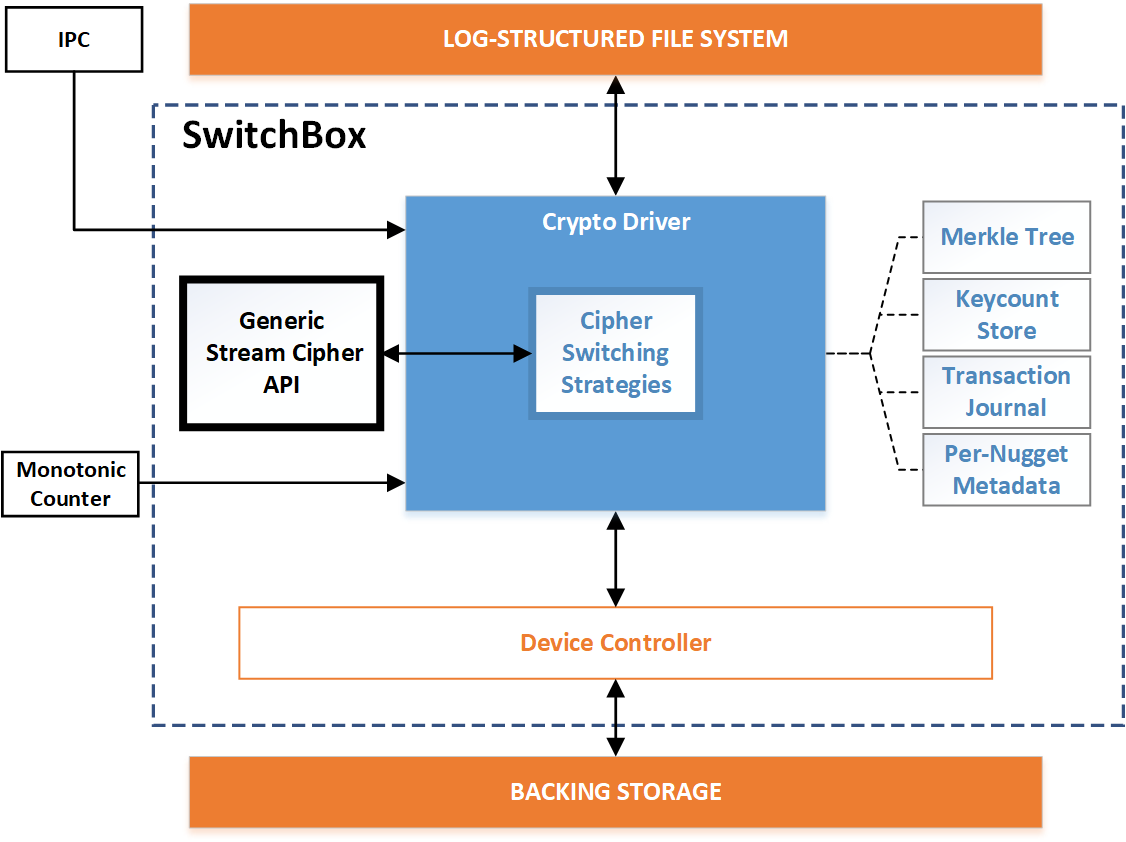
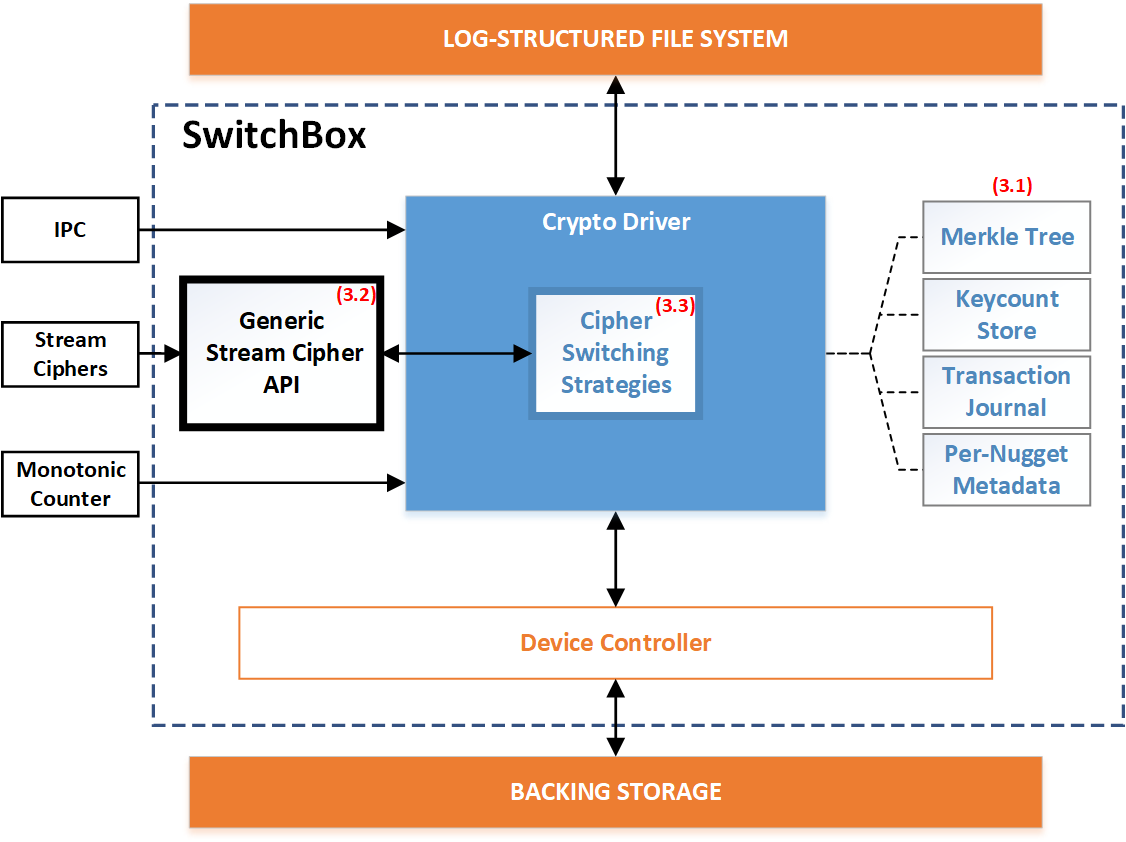
updated fig again, integrating Har feedback

diff --git a/4_implementation.tex b/4_implementation.tex
@@ -21,25 +21,21 @@ to transact block I/O requests to and from virtual block devices exposed via
 domain socket.
 
 For experimental purposes, our implementation makes the choice of ciphers
-binary: either the system wants SwitchCrypt to access the backing store using the
-primary cipher or the secondary cipher. However, there is no technical
+binary: either the system wants SwitchCrypt to access the backing store using
+the primary cipher or the secondary cipher. However, there is no technical
 limitation preventing various different nuggets encrypted with three, four, or
 more unique ciphers.
 
-Cipher switching is a cross-cutting concern---for instance, the desire to switch
-ciphers could come from an unrelated process in user space, so we use POSIX
-message queues in our implementation.
-
-A production-ready implementation would be greatly simplified by adding an
-``intent'' parameter to the POSIX \textit{read()} and \textit{write()} system
-calls, allowing SwitchCrypt to more exactly map individual I/O operations to
-specific areas of the backing store when spatially switching. We simulate this
-with IPC. \PUNT{This is especially important when considering the selective
-switching strategy; a production-ready implementation supporting selective
-switching would need to differentiate between metadata operations belonging to
-the filesystem (should be mirrored across all partitions) and actual end-user
-data (should be selectively read from and written to nuggets in specific
-partitions).}
+we use POSIX message queues to indicate intent to switch. A production-ready
+implementation would be greatly simplified by adding an ``intent'' parameter to
+the POSIX \textit{read()} and \textit{write()} system calls, allowing
+SwitchCrypt to more exactly map individual I/O operations to specific areas of
+the backing store when spatially switching. We simulate this with IPC.
+\PUNT{This is especially important when considering the selective switching
+strategy; a production-ready implementation supporting selective switching would
+need to differentiate between metadata operations belonging to the filesystem
+(should be mirrored across all partitions) and actual end-user data (should be
+selectively read from and written to nuggets in specific partitions).}
 
 Further, to operate securely, SwitchCrypt must be seeded with random data
 initially rather than have the backing store consist of all zeroes. This is a
@@ -55,9 +51,6 @@ configurations: a ``fast'' mode with parameters
 $R_{max}$=$28$, $H_I$=$2$, $I_C$=$10$)}, and a ``secure'' mode with parameters
 \texttt{FreestyleSecure($R_{min}$=$20$, $R_{max}$=$36$, $H_I$=$1$,
 $I_C$=$12$)} per the recommendations of the Freestyle authors~\cite{Freestyle}.
-
-Thanks to Freestyle's output randomization, we can skip the overhead of
-tracking, detecting, and handling overwrites when nuggets are using it.
 
 \subsubsection{Implementing Cipher Switching}
 
@@ -78,32 +71,23 @@ workload.
 
 First, a nugget is considered \emph{pristine} if it has not had any data written
 into it yet. SwitchCrypt determines if a nugget is pristine by checking the
-state of the transaction journal for that nugget. A pristine nugget will have a
-clean transaction journal.
+state of the transaction journal for that nugget. All nuggets start out pristine
+with metadata indicating that they are to be encrypted and decrypted by the
+initially active cipher. This is true \emph{even if the nugget has not been
+written to yet}. This means, on read and write operations after a different
+cipher becomes the active cipher configuration using a naively implemented
+forward switching strategy, every write operation will trigger a re-keying,
+which carries significant overhead.
 
-All nuggets start out as pristine. All nuggets start out with metadata
-indicating that they are to be encrypted and decrypted by the initially active
-cipher. This is true \emph{even if the nugget has not been written to yet}. This
-means, on read and write operations after a different cipher becomes the active
-cipher configuration using a naively implemented forward switching strategy,
-every write operation will trigger a re-keying, which carries significant
-overhead.
-
-The solution is to divide forward switching into \emph{soft re-ciphering} and
-\emph{hard re-ciphering}. Fortunately, the SwitchCrypt design lends itself
-nicely to such a distinction for free, as per-nugget metadata is managed
-separately from a nugget's actual data.
-
-During soft re-ciphering, only the nugget's metadata is changed to indicate that
-the nugget can be encrypted and decrypted with the newly active cipher
-configuration but \emph{without actually re-ciphering the nugget data itself}.
-This keeps the nugget in its pristine condition, preserving SwitchCrypt's
-ability to write data into it without triggering a costly re-keying operation
-every time, preserving our performance advantage. At the same time, SwitchCrypt
-can now use the newly active cipher configuration to interact with the nugget as
-expected. On the other hand, during hard re-cipher, the nugget's metadata is
-changed to match the active cipher configuration \emph{and} the nugget data is
-encrypted using the new cipher.
+Our solution was to divide forward switching into \emph{soft re-ciphering} and
+\emph{hard re-ciphering}. During soft re-ciphering, only the nugget's metadata
+is changed to indicate that the nugget can be encrypted and decrypted with the
+newly active cipher configuration but \emph{without actually re-ciphering the
+nugget data itself}. This keeps the nugget in its pristine condition, preserving
+SwitchCrypt's ability to write data into it without triggering a costly
+re-keying operation every time. On the other hand, during hard re-cipher, the
+nugget's metadata is changed to match the active cipher configuration \emph{and}
+the nugget data is encrypted using the new cipher.
 
 \PUNT{When using forward switching other that 0-forward, \ie{N-forward} where $N
 > 0$, only read operations are allowed to trigger hard re-ciphering for nuggets

diff --git a/3_design.tex b/3_design.tex
@@ -1,18 +1,21 @@
-\section{SwitchCrypt Design}\label{sec:design}
+\section{SwitchCrypt Design} \label{sec:design}
 
-In this section, we first give a brief overview of SwitchCrypt's design. We then
-1) discuss \emph{decoupling} the cipher implementations from the
-encryption/decryption process via generic API, 2) describe and contrast three
-cipher \emph{switching strategies}, and finally 3) detail our scheme to
-\emph{quantify} cipher strength and the tradeoff of configurations that yields.
+What follows is a brief overview of SwitchCrypt's design
+(\cref{subsec:overview}). We then discuss \emph{decoupling} the cipher
+implementations from the encryption/decryption process by providing a generic
+API (\cref{subsec:api}), describe and contrast three cipher \emph{switching
+strategies} (\cref{subsec:strategies}), and then detail our scheme to
+\emph{quantify} cipher strength and the tradeoff of configurations that yields
+(\cref{subsec:quantify}). Finally, we revisit the battery saver example and
+summarize how the SwitchCrypt components fit together (\cref{subsec:summary}).
 
-\subsection{SwitchCrypt Overview}
+\subsection{SwitchCrypt Overview}\label{subsec:overview}
 
-SwitchCrypt divides the underlying drive(s) or ``backing store'' into a series
-independent same-size logical blocks called \emph{nuggets}. A nugget consists of
-one or more physical drive blocks/sectors depending on its configured size and
-per-nugget metadata indicating which cipher was used to encrypt the nugget. Each
-nugget is subdivided into a constant number of units called \emph{flakes}.
+SwitchCrypt divides the underlying drive into a series independent same-size
+logical units called \emph{nuggets}. Each nugget is subdivided into a constant
+number of units called \emph{flakes}. A flake consists of one or more contiguous
+physical drive  blocks with per-nugget metadata indicating which cipher was used
+to encrypt the nugget.
 
 SwitchCrypt uses this flake-nugget structure to 1) track, detect, and handle
 overwrites, 2) limit the maximum length of any plaintexts provided to ciphers,
@@ -52,7 +55,7 @@ cryptographic material is stored depending on the cipher used to encrypt the
 nugget. The size of the array is determined by the \emph{generic stream cipher
 API}.
 
-\subsection{Generic Stream Cipher API: Decoupling Implementation And Process}
+\subsection{Generic Stream Cipher API: Decoupling Implementation And Process} \label{subsec:api}
 
 We \emph{decouple} the cipher implementations from the encryption/decryption
 process through the generic stream cipher API, which allows any cipher to work
@@ -65,7 +68,7 @@ SwitchCrypt exposes API hooks at three levels:
 \begin{enumerate}
    \item \textbf{\texttt{crypt\_data}}\\\texttt{crypt\_data}
    operates at a fine-grain level, provides intra- and inter- nugget offset as
-    inputs, and returns crypted the specified region. There is no distinction
+    inputs, and returns encrypted the specified region. There is no distinction
     made between encryption and decryption. Further, this interface does not
     allow any access to the SwitchCrypt internals and is expected to execute
     independently of SwitchCrypt.
@@ -89,11 +92,11 @@ cryptographic material}) or other considerations. Coarse-grain cipher
 implementations must only ever operate on a single nugget or API behavior is
 undefined. Further, due to cipher switching, implementations must not read in
 any nugget/flake data from the backstore if a perfectly aligned nugget-sized
-chunk is requested. This is because the nugget data might be crypted with a
+chunk is requested. This is because the nugget data might be encrypted with a
 different algorithm when attempting to read it, corrupting the plaintext during
 cipher switching.
 
-\subsection{Cipher Switching Strategies}
+\subsection{Cipher Switching Strategies} \label{subsec:strategies}
 
 At any moment, the currently active cipher configuration is used to encrypt
 nugget contents. When a cipher switch occurs, the active cipher configuration is
@@ -270,7 +273,7 @@ have been proven formally secure. Hence, nuggets encrypted with different secure
 ciphers can co-exist on the backing store securely, depending on the use case
 (see: \secref{usecases}).
 
-\subsection{Quantifying Cipher Security Properties}
+\subsection{Quantifying Cipher Security Properties} \label{subsec:quantify}
 
 Every cipher mentioned in this paper has been proven formally secure in that
 \emph{there are no known efficient attacks against any of them}~\cite{All,
@@ -358,3 +361,7 @@ ChaCha20. Variants are distributed evenly from 0-1. For instance, ChaCha8 scores
   SwitchCrypt and to FDE more generally.}
   \label{tbl:security-quant}
 \end{table}
+
+\subsection{Putting It All Together} \label{subsec:summary}
+
+Text goes here.

diff --git a/_paper.tex b/_paper.tex
@@ -58,6 +58,12 @@
 \usepackage{adjustbox}
 \usepackage{pgfplots}
 \usepackage{balance}
+\usepackage{cleveref}
+
+% Fancy subsection references with cref
+\crefformat{section}{\S#2#1#3} % see manual of cleveref, section 8.2.1
+\crefformat{subsection}{\S#2#1#3}
+\crefformat{subsubsection}{\S#2#1#3}
 
 % \makeatletter
 %     \def\balanceissued{unbalanced}%flag to indicate if \balance has been used
